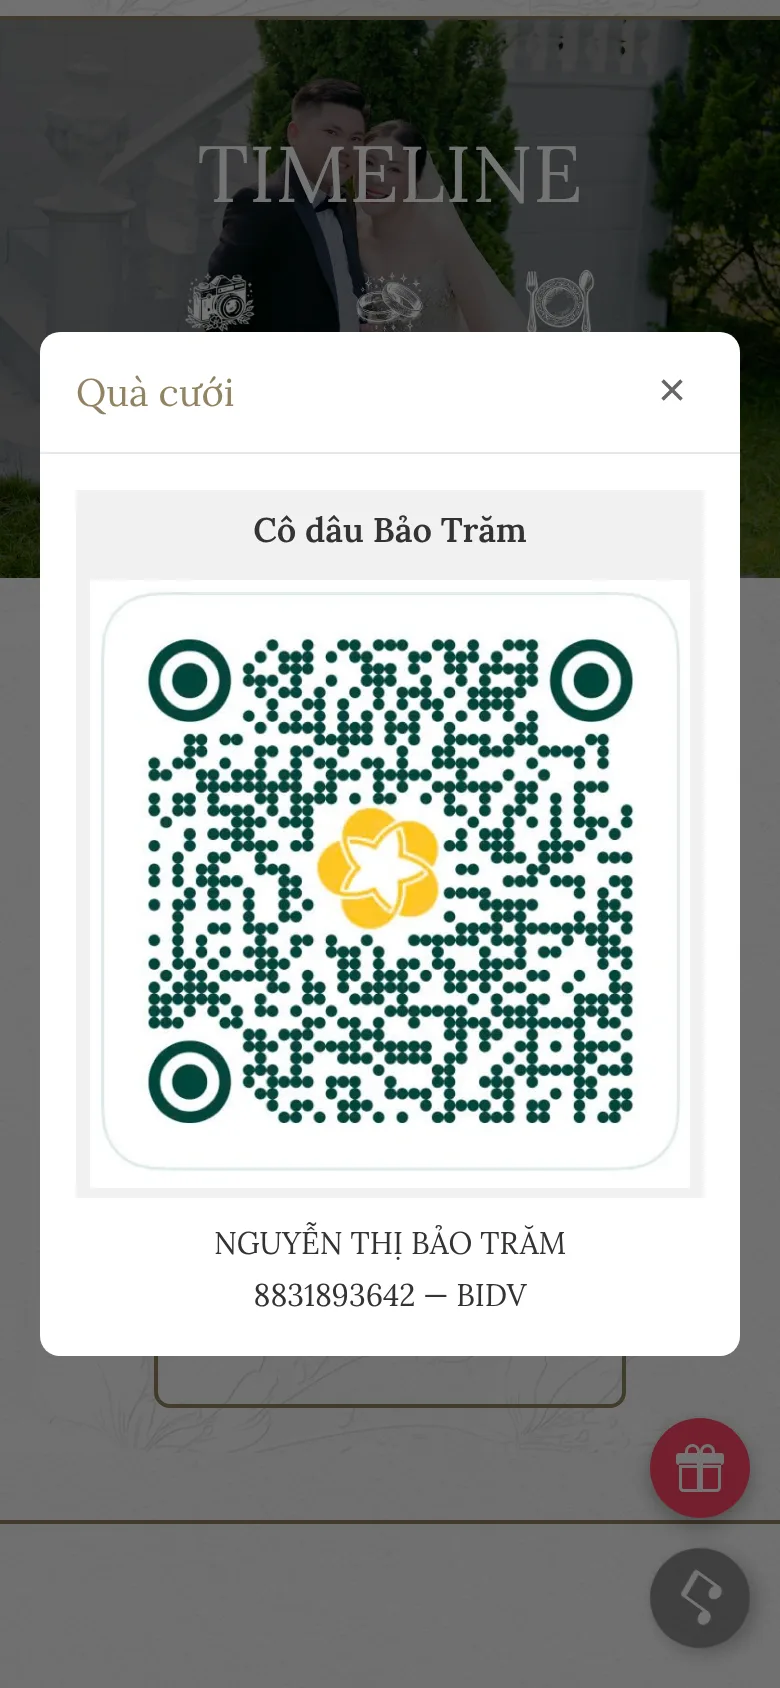
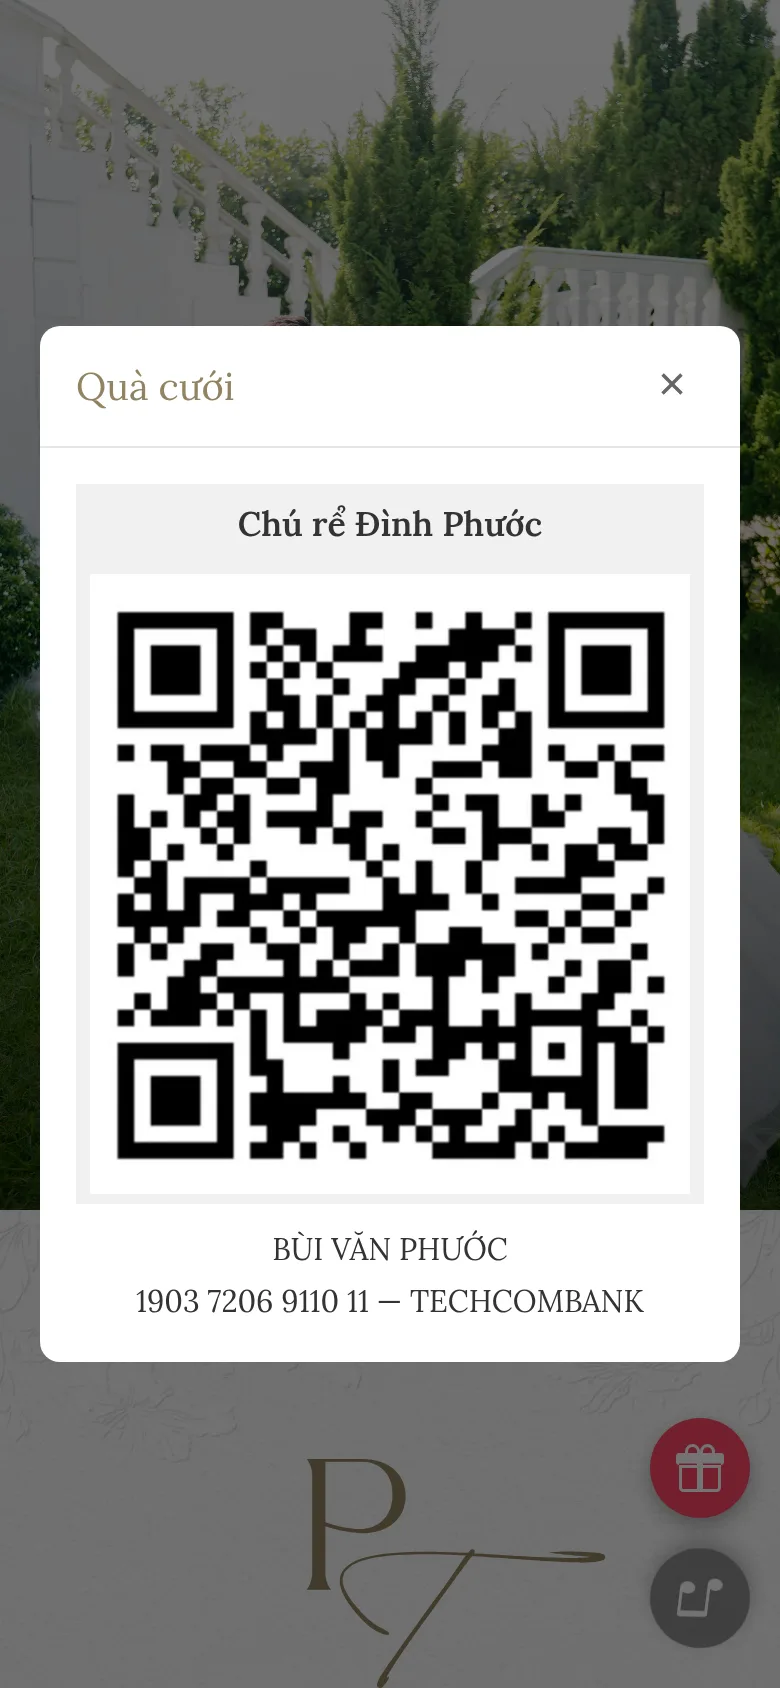
Thay QR mừng cưới thiệp nhà trai sang QR chú rể — BÙI VĂN PHƯỚC, 1903 7206 9110 11, Techcombank (VietQR, đã giải mã kiểm chứng)

diff --git a/products/Invitation/Wedding/khach_dinh-phuoc-bao-tram/code.html b/products/Invitation/Wedding/khach_dinh-phuoc-bao-tram/code.html
@@ -380,9 +380,9 @@
     </div>
     <div class="tx-modal-body">
       <div class="qr-code-wrapper">
-        <p class="qr-code-header">Cô dâu Bảo Trăm</p>
-        <p class="qr-code-img"><img src="./qr_co_dau.webp" alt="Mã QR mừng cưới cô dâu Bảo Trăm"></p>
-        <p class="qr-code-account">NGUYỄN THỊ BẢO TRĂM<br>8831893642 — BIDV</p>
+        <p class="qr-code-header">Chú rể Đình Phước</p>
+        <p class="qr-code-img"><img src="./qr_chu_re.webp" alt="Mã QR mừng cưới chú rể Đình Phước"></p>
+        <p class="qr-code-account">BÙI VĂN PHƯỚC<br>1903 7206 9110 11 — TECHCOMBANK</p>
       </div>
     </div>
   </div>
